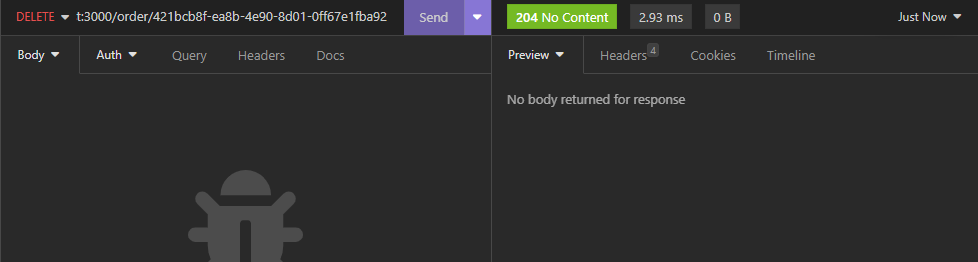
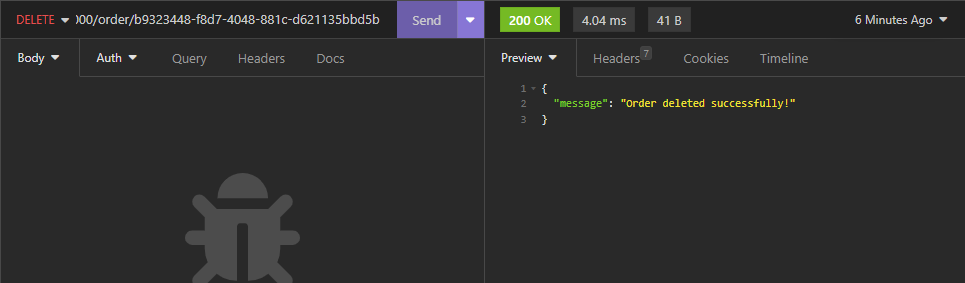
updated project structure

diff --git a/src/controllers/ordersController.js b/src/controllers/ordersController.js
@@ -1,0 +1,83 @@
+import { v4 as uuidv4 } from 'uuid';
+import { orders } from '../orders.js';
+
+const ordersController = {
+  checkUserId(req, res, next) {
+    const { id } = req.params;
+  
+    const index = orders.findIndex(order => order.id === id);
+  
+    if(index < 0) {
+      return res.status(404).json({ error: "User not found" });
+    }
+  
+    req.orderIndex = index;
+    req.orderId = id;
+  
+    next();
+  },
+
+  logMethod(req, res, next) {
+    console.log(`Method: ${req.method}, URL: ${req.originalUrl}`);
+    next();
+  },
+
+  createOrder(req, res) {
+    const { order, clientName, price } = req.body;
+  
+    if(order.length < 1 || clientName.length < 1 || price.length < 1) {
+      return res.status(403).json({ message: "Fill in all fields to create the order!" })
+    }
+  
+    const fullOrder = { id: uuidv4(), order, clientName, price, status: "Em preparação" };
+  
+    orders.push(fullOrder)
+  
+    return res.status(201).json(fullOrder)
+  },
+
+  listOrders(req, res) {
+    return res.json(orders);
+  },
+
+  listOrdersById(req, res) {
+    const id = req.orderId;
+    const orderById = orders.find(order => order.id === id)
+  
+    return res.json(orderById)
+  },
+
+  updateOrder(req, res) {
+    const { order, clientName, price } = req.body;
+    const index = req.orderIndex;
+    const id = req.orderId;
+  
+    const updateOrder = { id, order, clientName, price, status: "Em preparação" }
+  
+    orders[index] = updateOrder;
+  
+    return res.json(updateOrder);
+  },
+
+  updateOrderStatus(req, res) {
+    const id = req.orderId;
+    const index = req.orderIndex;
+    const { status } = req.body;
+  
+    orders[index].status = status;
+  
+    const orderWithUpdatedStatus = orders.find(order => order.id === id)
+  
+    return res.json(orderWithUpdatedStatus);
+  },
+
+  deleteOrders(req, res) {
+    const index = req.orderIndex;
+  
+    orders.splice(index, 1);
+  
+    return res.json({ message: "Order deleted successfully!" });
+  },
+}
+
+export { ordersController }

diff --git a/src/routes.js b/src/routes.js
@@ -1,0 +1,18 @@
+import { Router } from 'express';
+import { ordersController } from './controllers/ordersController.js';
+
+const routes = Router();
+
+routes.post('/order', ordersController.logMethod, ordersController.createOrder)
+
+routes.get('/order', ordersController.logMethod, ordersController.listOrders)
+
+routes.get('/order/:id', ordersController.logMethod, ordersController.checkUserId, ordersController.listOrdersById)
+
+routes.put('/order/:id', ordersController.logMethod, ordersController.checkUserId, ordersController.updateOrder)
+
+routes.patch('/order/:id', ordersController.logMethod, ordersController.checkUserId, ordersController.updateOrderStatus)
+
+routes.delete('/order/:id', ordersController.logMethod, ordersController.checkUserId, ordersController.deleteOrders)
+
+export { routes }

diff --git a/src/app.js b/src/app.js
@@ -1,0 +1,12 @@
+import express from 'express';
+import { routes } from './routes.js';
+
+const app = express();
+const port = 3000;
+
+app.use(express.json());
+app.use(routes);
+
+app.listen(port, () => {
+  console.log(`Servidor rodando na porta ${port}`);
+})

diff --git a/src/orders.js b/src/orders.js
@@ -1,0 +1,3 @@
+const orders = []
+
+export { orders }
